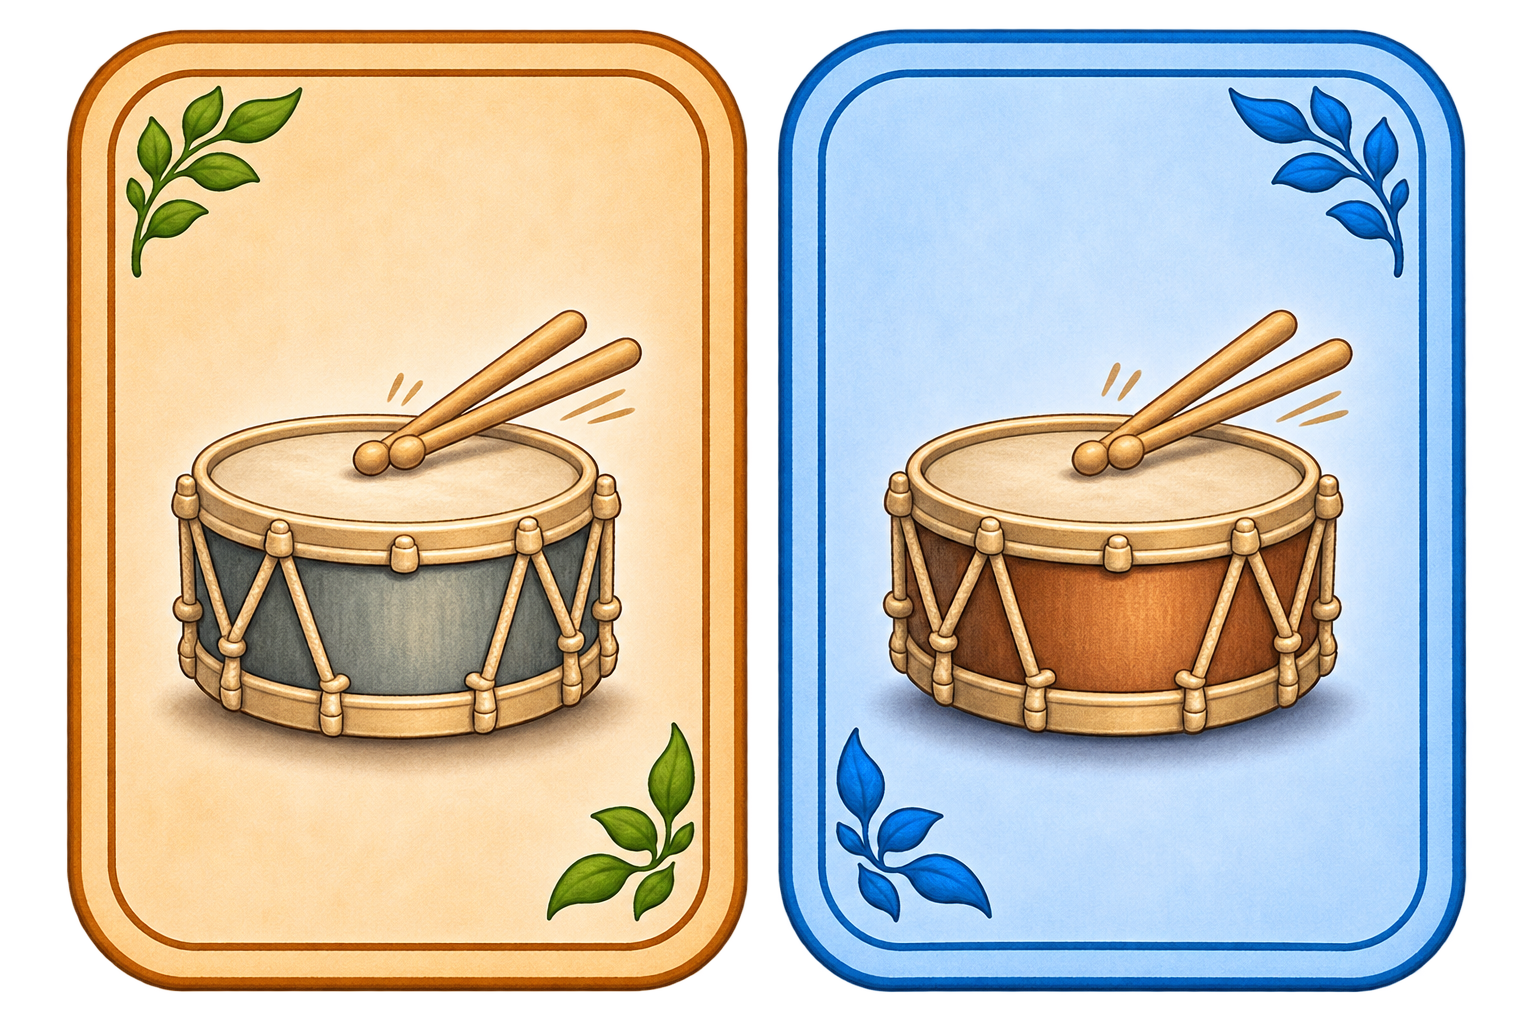
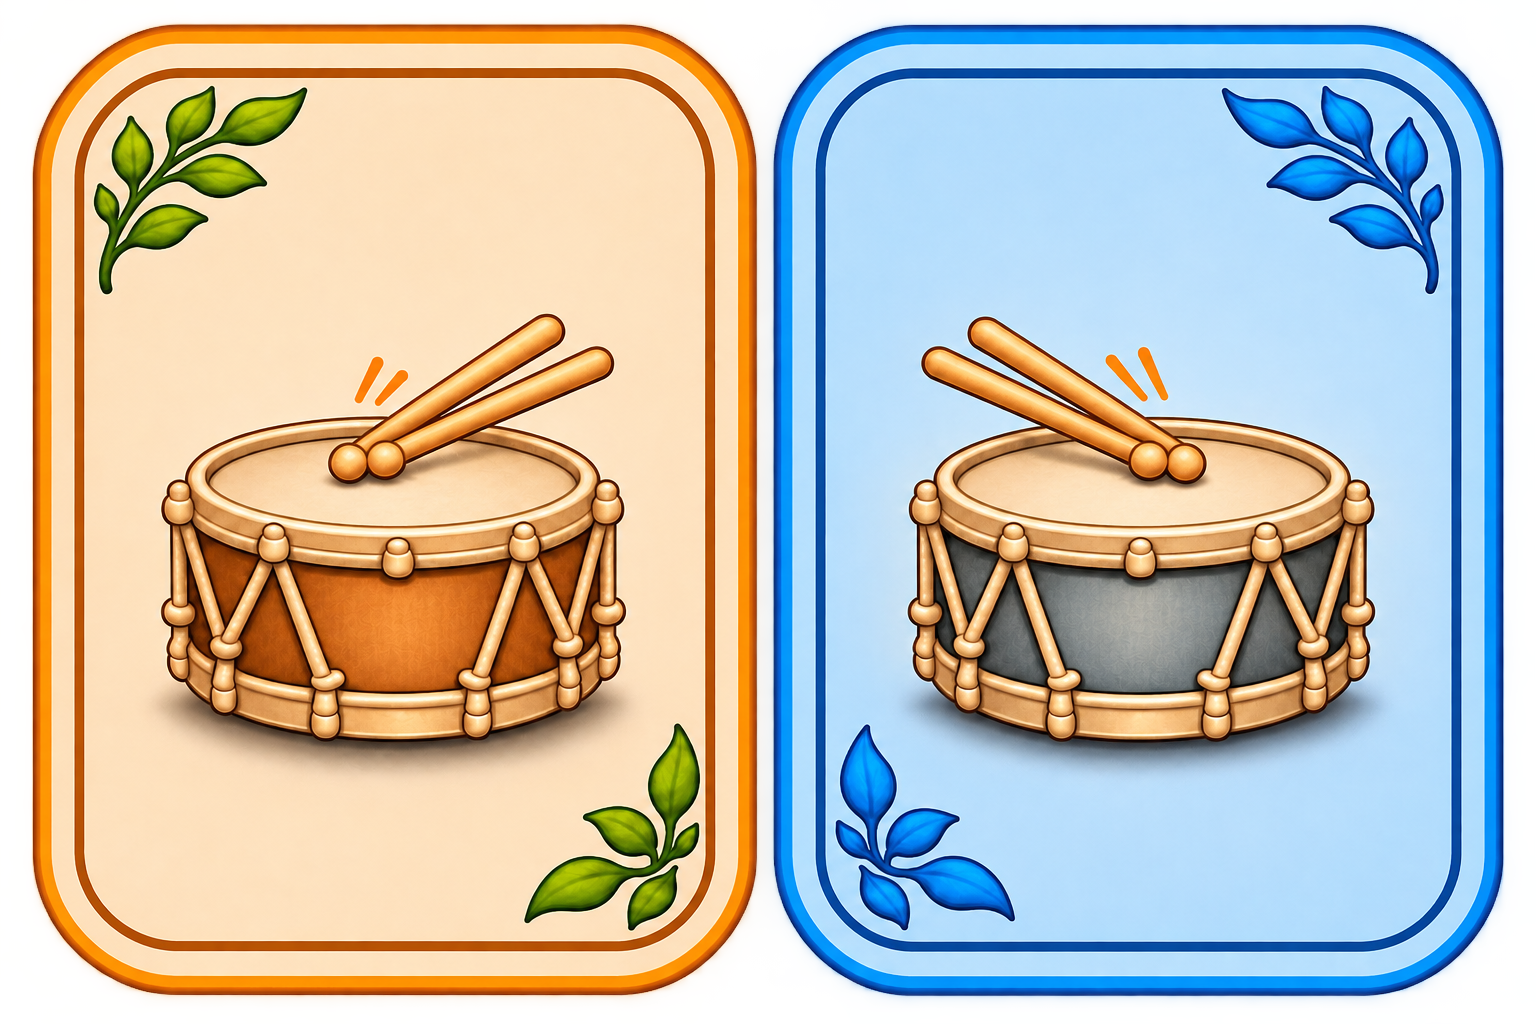
Same or Different: re-copy all twelve card sheets; record the card conventions
Revised drum, flute and trumpet; new electric guitar and xylophone. All
twelve are verified against their sources by checksum. Cello in the source
folder is unchanged since 12:45.

Records the conventions (warmer or lighter variant on the cream card,
cooler or darker on the blue; no faces) and that electric guitar and drum
must not be offered.

diff --git a/docs/product/SAME_OR_DIFFERENT.md b/docs/product/SAME_OR_DIFFERENT.md
@@ -72,20 +72,35 @@ side-agnostic.
    B + A.
 3. **Vary WHICH STUMP is which**: "same" cannot always be the left stump.
 
+## Card conventions — every future card must match
+
+Established across all twelve sheets (2026-11-14):
+
+1. ⚠ **The warmer or lighter variant goes on the CREAM card; the cooler or
+   darker one on the BLUE card.** Pale cello and gold trumpet are on cream;
+   dark cello and silver trumpet on blue. "These match" can then be read
+   partly from warmth, without the child having to identify the
+   instrument, which matters at stump size.
+2. **No faces.** Instruments on cards are formal and faceless, unlike the
+   in-game sprites, which are characters. An earlier electric guitar pair
+   had faces and was replaced.
+
 ## Instruments — cards against audio (2026-11-14)
 
-Ten card sheets are in `assets/images/journey/cards_<instrument>_pair.png`.
-Each is 1536×1024 RGBA, copied byte-for-byte; every sheet tops out at
-alpha 254, which is Cooper's export setting, not a defect.
+Twelve card sheets are in
+`assets/images/journey/cards_<instrument>_pair.png`. Each is 1536×1024
+RGBA, copied byte-for-byte and verified by checksum. Every sheet tops out
+at alpha 254, which is Cooper's export setting, not a defect.
 
 | Cards | Audio | Can it be offered? |
 |---|---|---|
 | bells | 13 notes, C6–C7 | Yes |
 | cello, flute, oboe, piano, trumpet, violin | 24 notes, C4–B5 | Yes |
-| guitar | 22 notes, C3–B4 (A3 and A♯4 missing) | Yes — melodies must avoid the two holes |
-| tuba | 24 files, but only G♯3–B3 (4 notes) usable on a speaker | ⚠ Barely: a melody has just 4 notes to move in |
-| drum | NONE, and unpitched | ⚠ **NO.** Never offer drum until it is decided whether drum belongs in this game (comparing RHYTHMS, not melodies) or in the separate rhythm game — open between Cooper and the user. |
-| xylophone | Not yet sourced (Iowa F4–C8 is available) | No card sheet yet; it would be the eleventh. |
+| guitar | 22 notes, C3–B4 (A3 and A♯4 missing) | Yes. Melodies must avoid the two holes. |
+| tuba | 24 files, but only G♯3–B3 (4 notes) usable on a phone speaker | ⚠ Barely: a melody has just 4 notes to move in. |
+| xylophone | Not yet sourced (Iowa has F4–C8) | Not until the samples land. |
+| drum | NONE, and unpitched | ⚠ **NO.** Never offer drum until it is decided whether drum belongs in this game (comparing RHYTHMS, not melodies) or in the separate rhythm game. That question is open between Cooper and the user. |
+| electric guitar | NONE in any library we use | ⚠ **NO.** Needs a third source and a new licence question. |
 
-Every sheet needs its own measured slices (only cello and bells were
-measured above).
+Every sheet needs its own measured slices. Only the first cello and bells
+columns were measured above, and must be re-checked if a sheet is revised.
